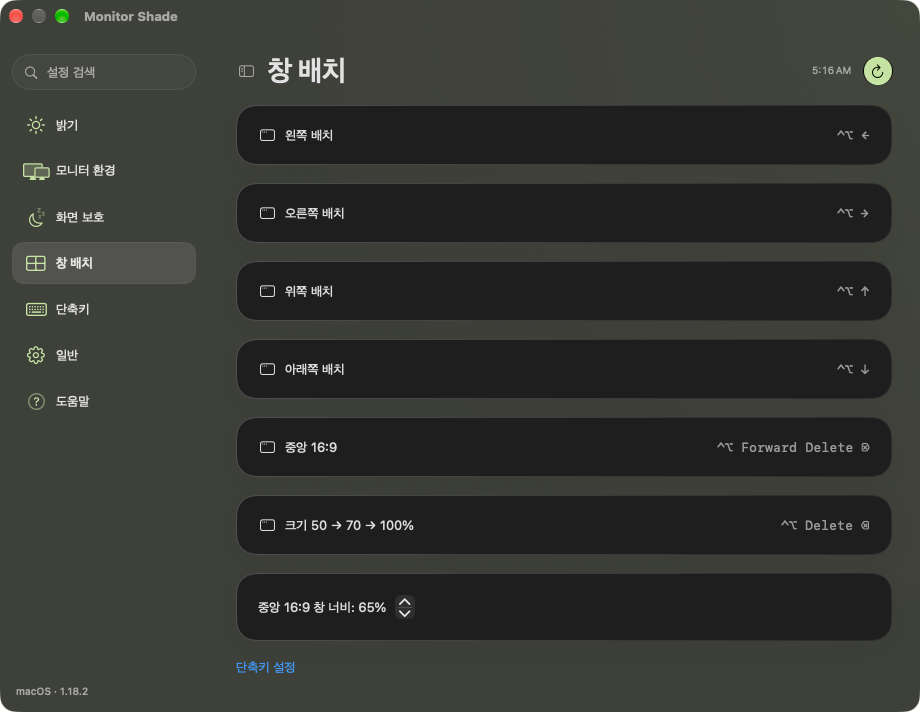
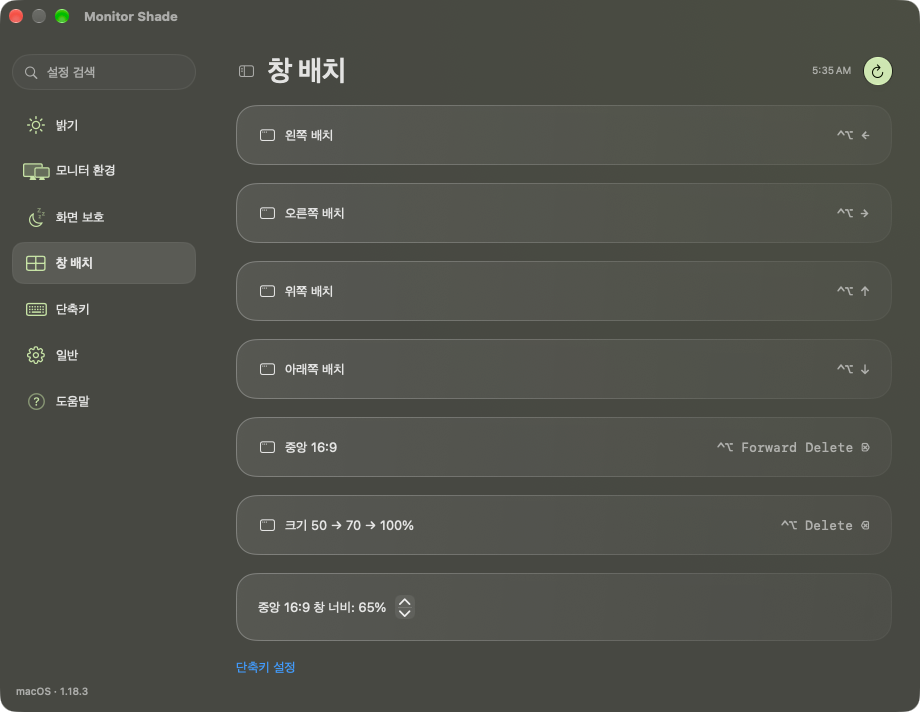
Update Mac glass screenshots and document normal-transparency verification [skip ci]

diff --git a/macos/VALIDATION.md b/macos/VALIDATION.md
@@ -1,11 +1,11 @@
-# macOS 1.18.2 validation
+# macOS 1.18.3 validation
 
 2026-10-23 (Asia/Seoul).
 
 Built on the GitHub-hosted macOS 26 runner with Xcode 26.6. The packaged app also ran on macOS 27.0.1 using the `xcode-27` runner:
-[run 39904675769](https://github.com/iismn/MonitorShade/actions/runs/39904675769).
+[run 39906295080](https://github.com/iismn/MonitorShade/actions/runs/39906295080).
 
-The app source for this package is commit `3f26c7007c6cf7783c7a55b5fd485943aa4ce486`. Later README and screenshot commits do not change the executable sources.
+The app source for this package is commit `6a0992491416dd55fd6c20068b015d9b4e33f54a`. Later README and screenshot commits do not change the executable sources.
 
 | Check | Result |
 | --- | --- |
@@ -19,19 +19,20 @@ The app source for this package is commit `3f26c7007c6cf7783c7a55b5fd485943aa4ce
 | Sidebar visibility in composited window captures | Passed |
 | Sidebar and detail share one backdrop | Morning/evening RGB difference ≤ 0.0001 on macOS 26 and 27 |
 | Sidebar follows the time palette | Passed on macOS 26 and 27 |
+| Sync bar and monitor cards avoid separate dark opaque panels | Passed in normal-transparency fixtures on macOS 26 and 27 |
 | ZIP contains executable mode and both architectures | Passed |
 | ZIP excludes personal profiles and diagnostics | Passed |
 
-The UI tests use preview monitors. They do not modify hardware, register global shortcuts or load user display profiles. Screenshots are of the test app's own window on the CI runner.
+The UI tests use preview monitors. The hosted runners initially had Reduce Transparency enabled; CI explicitly disables it and Increase Contrast for normal-appearance captures. The app still respects these settings on the user's Mac. The initial opaque captures and the corrected transparent captures were inspected; `environment.txt` records the active state. They do not modify hardware, register global shortcuts or load user display profiles. Screenshots are of the test app's own window on the CI runner.
 
-The README images are the app's native macOS 27.0.1 window captures, with preview display data. The sidebar has no separate dark panel. Its empty background matches the detail background. The dot readout uses a 20% smaller frame with brighter dots and glow. Morning and evening brightness cards were visually checked for aligned edges, readable controls and the dot readout.
+The README images are the app's native macOS 27.0.1 window captures, with preview display data. The sidebar has no separate dark panel. Its empty background matches the detail background. The dot readout retains its 20% smaller frame with brighter dots and glow. Monitor cards use transparent tint layers over the live window backdrop. The sync bar and percentage control use native clear Liquid Glass. Morning and evening brightness cards were visually checked for aligned edges, readable controls and the dot readout.
 
[1 lines of base64/hex data omitted]
 
 Package SHA-256:
 
 ```text
-a318e309796edf3ed99431adb8f92a6790f18bdec870e68a4b46dc5740951f0c  MonitorShade-macOS.zip
+54bbbad9635b9c52de7dc914e7f35fbfbf8361370ce49def9a04db7fab3384b5  MonitorShade-macOS.zip
 ```
 
 Physical monitor DDC/CI writes, cable reconnection, rotation, login startup, permission approval, screen-content capture and third-party window movement were not exercised on the user's Mac in this run. The supplied app's earlier hardware validation is reference evidence; it is not a substitute for testing this integration on that hardware. The app is not Apple notarized.

diff --git a/macos/README.md b/macos/README.md
@@ -68,6 +68,6 @@ The app does not need Edge, WebView2, .NET or a browser runtime. Its panels use 
 
 ## Interface
 
-The sidebar and detail view share one full-window desktop backdrop and time palette. Navigation has no separate opaque panel. Search, hover states, keyboard navigation and the sidebar visibility control are retained. Brightness sync and the linked brightness controls use native Liquid Glass on macOS 26 or later. Content cards use standard materials. The linked card blends green daytime colors into orange, pink and pale gray in the evening. Its dot readout is 20% smaller than 1.18.1, with larger white dots and two soft glow layers. The native window backdrop stays live when the window moves.
+The sidebar and detail view share one full-window desktop backdrop and time palette. Navigation has no separate opaque panel. Search, hover states, keyboard navigation and the sidebar visibility control are retained. Brightness sync and the linked brightness controls use native clear Liquid Glass on macOS 26 or later. Content cards use translucent tint layers over the shared native desktop blur, with a soft highlight along their edges. They do not add a separate dark material. Reduce Transparency uses an opaque system surface for readability. The linked card blends green daytime colors into orange, pink and pale gray in the evening. Its dot readout is 20% smaller than 1.18.1, with larger white dots and two soft glow layers. The native window backdrop stays live when the window moves.
 
 The design follows Apple's [Materials guidance](https://developer.apple.com/design/human-interface-guidelines/materials) and [macOS 27 design updates](https://developer.apple.com/videos/play/wwdc2026/289/), with the soft gradients and dot readout from the supplied [visual reference](https://www.instagram.com/p/DeKDxK1MhzI/). System Reduce Transparency and Increase Contrast settings affect the materials. Page transitions honor Reduce Motion.

diff --git a/README.md b/README.md
@@ -10,7 +10,7 @@
 
 <br><br>
 
-[**Download for macOS**](https://github.com/iismn/MonitorShade/releases/download/mac-v1.18.2/MonitorShade-macOS.zip)
+[**Download for macOS**](https://github.com/iismn/MonitorShade/releases/download/mac-v1.18.3/MonitorShade-macOS.zip)
 
 **macOS 14+ · Apple silicon / Intel · Native app**
 
@@ -68,7 +68,7 @@ Edit all bindings in **Shortcuts**. Window control needs Accessibility permissio
 | :---: | :---: |
 | ![Morning native Mac UI](docs/images/macos-morning-brightness.png) | ![Evening native Mac UI](docs/images/macos-evening-brightness.png) |
 
-A shared desktop backdrop across the sidebar and content, time palettes and a compact glowing dot readout. Native Liquid Glass brightness controls on macOS 26 or later. Earlier systems use standard materials. No separate browser runtime.
+A shared desktop backdrop across the sidebar and content, time palettes and a compact glowing dot readout. Clear Liquid Glass controls and translucent cards on macOS 26 or later. Earlier systems use translucent surfaces. No separate browser runtime.
 
 <br>
 
